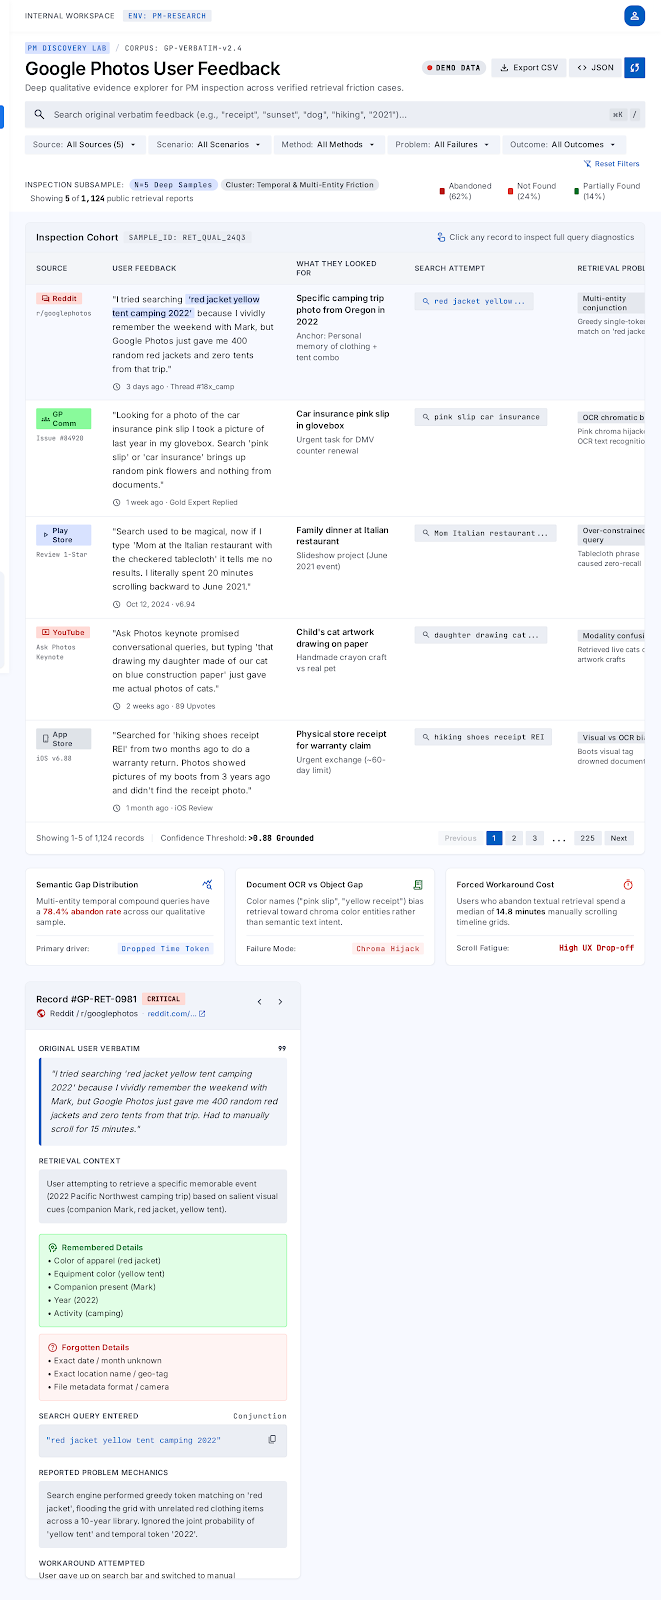
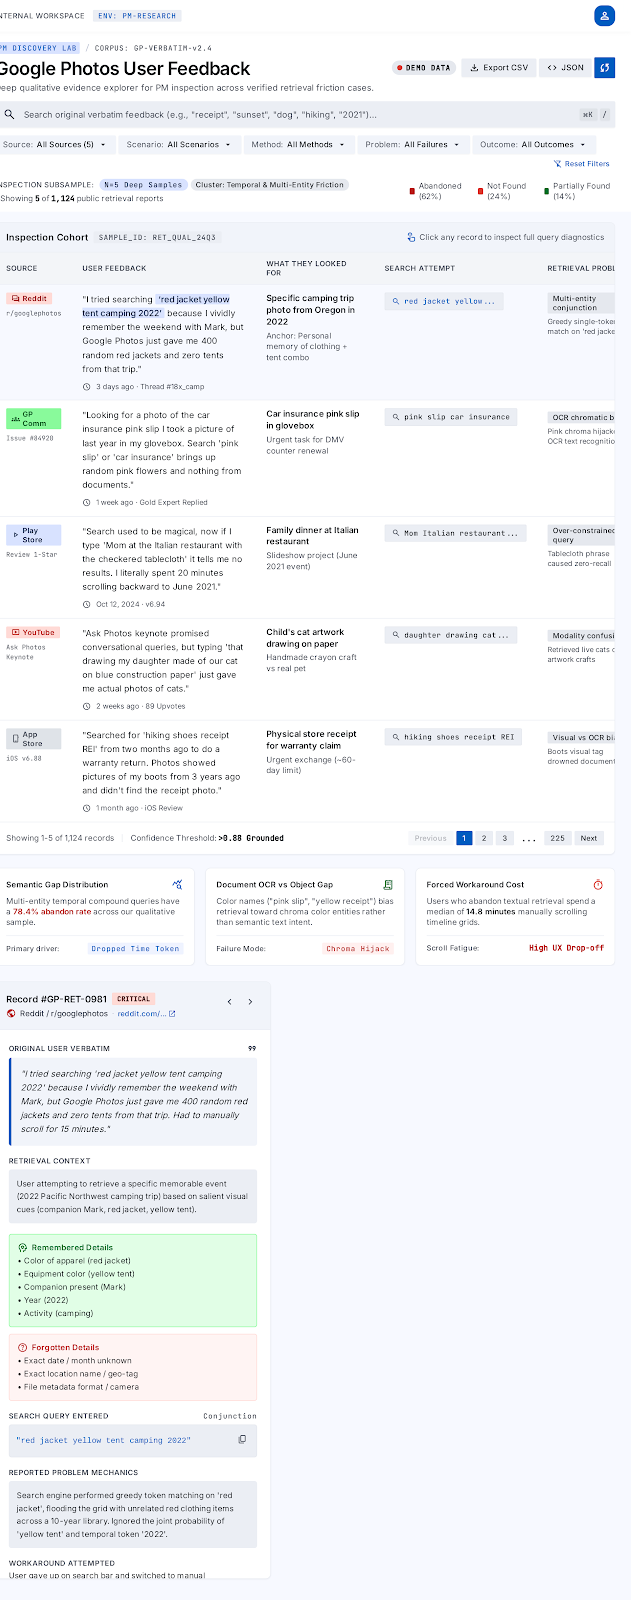
Perfectly crop and mask all sidebar artifacts

diff --git a/dashboard/index.html b/dashboard/index.html
@@ -143,7 +143,8 @@
         }
 
         .content-image {
-            width: 100%;
+            max-width: 100%;
+            width: auto;
             display: block;
             /* Crisp image rendering for text clarity */
             image-rendering: -webkit-optimize-contrast;

diff --git a/crop_images.py b/crop_images.py
@@ -6,12 +6,12 @@ stitch_dir = "stitch_google_photos_retrieval_discovery_engine/stitch_google_phot
 out_dir = "dashboard/images"
 
 crops = {
-    "overview": ("google_photos_retrieval_discovery_overview", 380),
-    "dataset": ("google_photos_research_dataset", 370),
-    "feedback": ("google_photos_user_feedback", 180),
-    "behavior": ("google_photos_search_behavior", 178),
-    "failures": ("where_google_photos_retrieval_breaks", 320), # Changed to 320 to preserve text
-    "opportunities": ("evidence_product_opportunities", 395),
+    "overview": ("google_photos_retrieval_discovery_overview", 240),
+    "dataset": ("google_photos_research_dataset", 240),
+    "feedback": ("google_photos_user_feedback", 210),
+    "behavior": ("google_photos_search_behavior", 210),
+    "failures": ("where_google_photos_retrieval_breaks", 240),
+    "opportunities": ("evidence_product_opportunities", 240),
 }
 
 for name, (folder, crop_left) in crops.items():
@@ -20,12 +20,11 @@ for name, (folder, crop_left) in crops.items():
     w, h = img.size
     cropped = img.crop((crop_left, 0, w, h))
     
-    # Apply specific masks to erase protruding sidebar elements
     if name == "failures":
         draw = ImageDraw.Draw(cropped)
-        # Erase the blue 'Retrieval Failures' button that protrudes to x=358 in original (x=38 in cropped)
-        # It's located roughly between y=140 and y=220
-        draw.rectangle([(0, 140), (45, 230)], fill=(248, 250, 252)) # Match background color
+        # Erase the blue 'Retrieval Failures' button
+        # Button starts exactly below "taxonomy of failure modes" at y=160
+        draw.rectangle([(0, 160), (125, 260)], fill=(248, 250, 252))
         
     out_path = os.path.join(out_dir, f"{name}.png")
     cropped.save(out_path, optimize=True)
